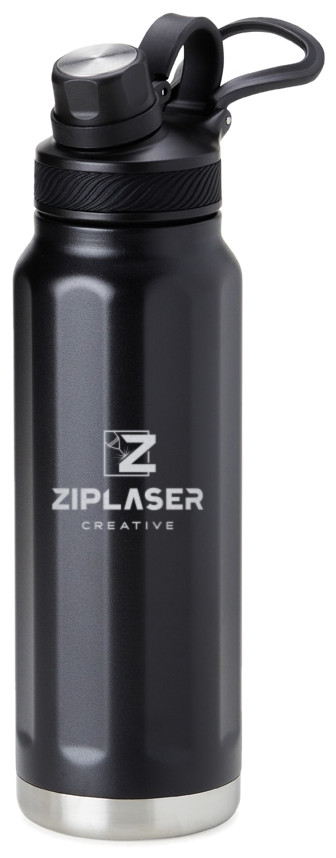
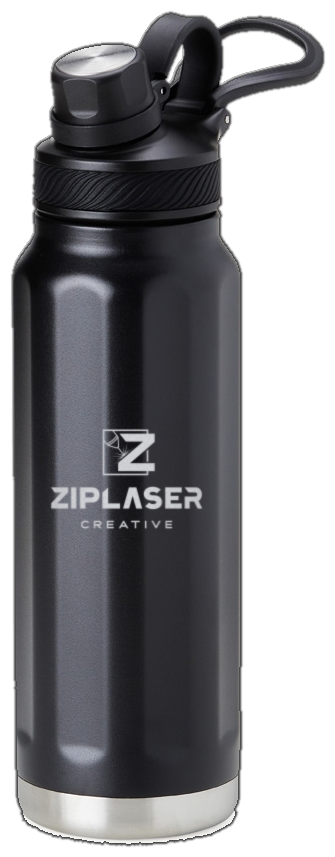
Garrafa 950 ml: só a cor preta e fundo transparente na alça
- Remove o branco de dentro das alças na foto do destaque
- Tira as outras cores (destaque e catálogo); a galeria fica com 2
  fotos da garrafa preta

Claude-Session: https://claude.ai/code/session_015ndp1JMreqMp5sMbkc7g89

diff --git a/index.html b/index.html
@@ -321,18 +321,17 @@
         <p class="lead">Inox preto com a sua logo gravada a laser. A gravação revela o metal por baixo da pintura e não sai com o uso.</p>
         <ul class="estrela-lista">
           <li>950 ml, com alça e tampa</li>
-          <li>6 cores disponíveis</li>
+          <li>Na cor preta</li>
           <li>Gravação permanente</li>
           <li>Ótima para brindes e equipes</li>
         </ul>
         <div class="acoes">
           <a class="btn btn-laser" id="estrela-wa" href="#" target="_blank" rel="noopener"><svg aria-hidden="true"><use href="#i-wa"/></svg>Pedir a garrafa no WhatsApp</a>
-          <button class="link" type="button" id="estrela-cores">Ver as 6 cores</button>
+          <button class="link" type="button" id="estrela-cores">Ver mais fotos</button>
         </div>
       </div>
       <div class="estrela-foto">
         <img src="assets/banner/garrafa-950-estrela.png" alt="Garrafa térmica 950 ml preta com a logo ZIPLASER gravada a laser" width="336" height="858" fetchpriority="high">
-        <span class="estrela-cores" aria-hidden="true"><i><b style="background:#111"></b><b style="background:#1f3556"></b><b style="background:#f2f2f2;border-color:#ddd"></b><b style="background:#e8b9c0"></b><b style="background:#4d7a5a"></b><b style="background:#6b6f74"></b></i>6 cores</span>
       </div>
     </div>
   </section>
@@ -512,7 +511,7 @@
     {"id": "copo-inox-800", "group": "Copos e canecas", "name": "Copo inox 800 ml com alça", "desc": "Copo térmico de inox escovado com alça e tampa. Grande, resistente e cheio de estilo.", "n": 1},
     {"id": "copo-125l", "group": "Copos e canecas", "name": "Copo térmico 1,25 L", "desc": "Copo térmico de 1,25 litro com alça, para quem não larga a hidratação.", "n": 1},
     {"id": "coqueteleira-700", "group": "Copos e canecas", "name": "Coqueteleira térmica 700 ml", "desc": "Coqueteleira de inox para shakes e drinks, em várias cores.", "n": 4},
-    {"id": "garrafa-950", "group": "Garrafas", "name": "Garrafa térmica 950 ml", "desc": "Garrafa de inox com tampa e alça, em 6 cores. A gravação revela o inox e não sai com o tempo.", "n": 6},
+    {"id": "garrafa-950", "group": "Garrafas", "name": "Garrafa térmica 950 ml preta", "desc": "Garrafa de inox preta com tampa e alça. A gravação revela o inox por baixo da pintura e não sai com o tempo.", "n": 2},
     {"id": "garrafa-750", "group": "Garrafas", "name": "Garrafa térmica 750 ml", "desc": "Garrafa térmica de inox com tampa e alça, leve para o dia a dia.", "n": 3},
     {"id": "garrafa-900-suporte", "group": "Garrafas", "name": "Garrafa 900 ml com suporte de celular", "desc": "Garrafa térmica com tampa que vira suporte magnético para o celular.", "n": 2},
     {"id": "garrafa-alca-750", "group": "Garrafas", "name": "Garrafa térmica com alça 750 ml", "desc": "Garrafa térmica com alça na tampa, em várias cores.", "n": 3},
